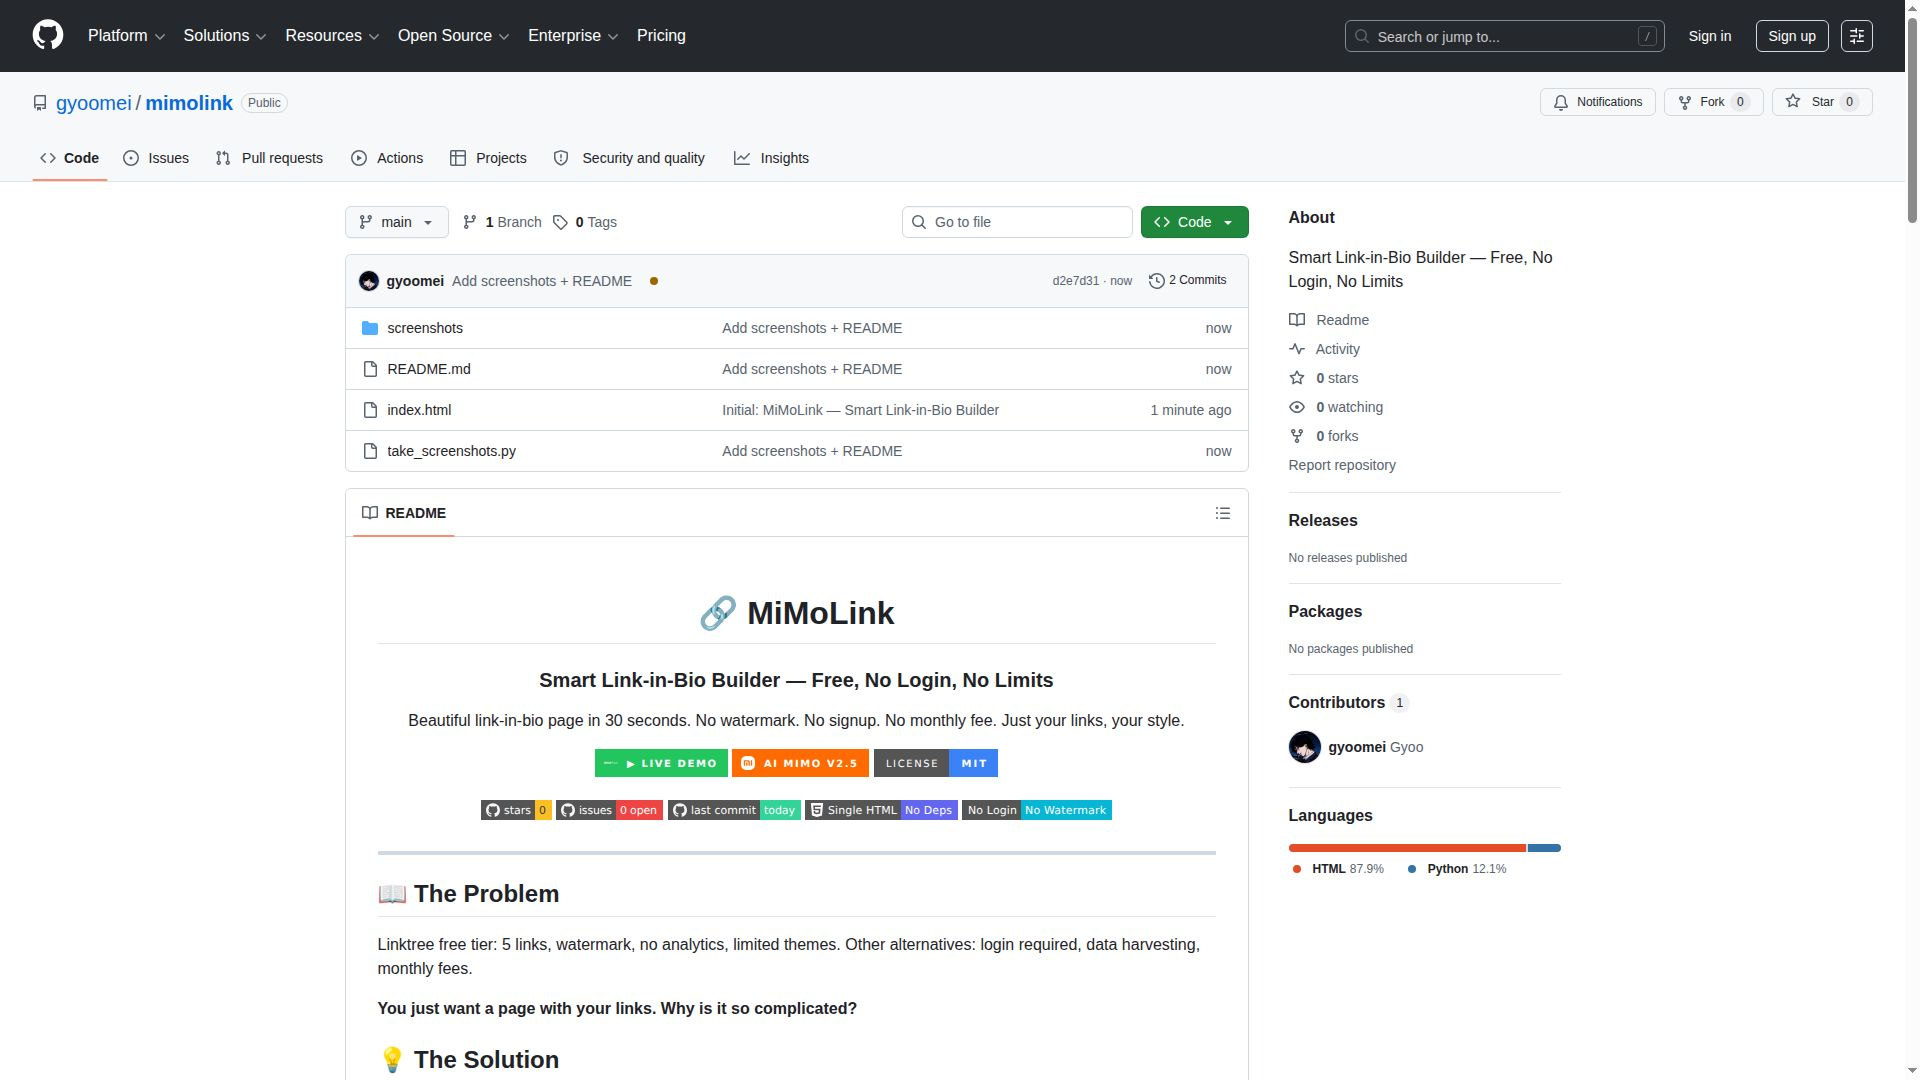
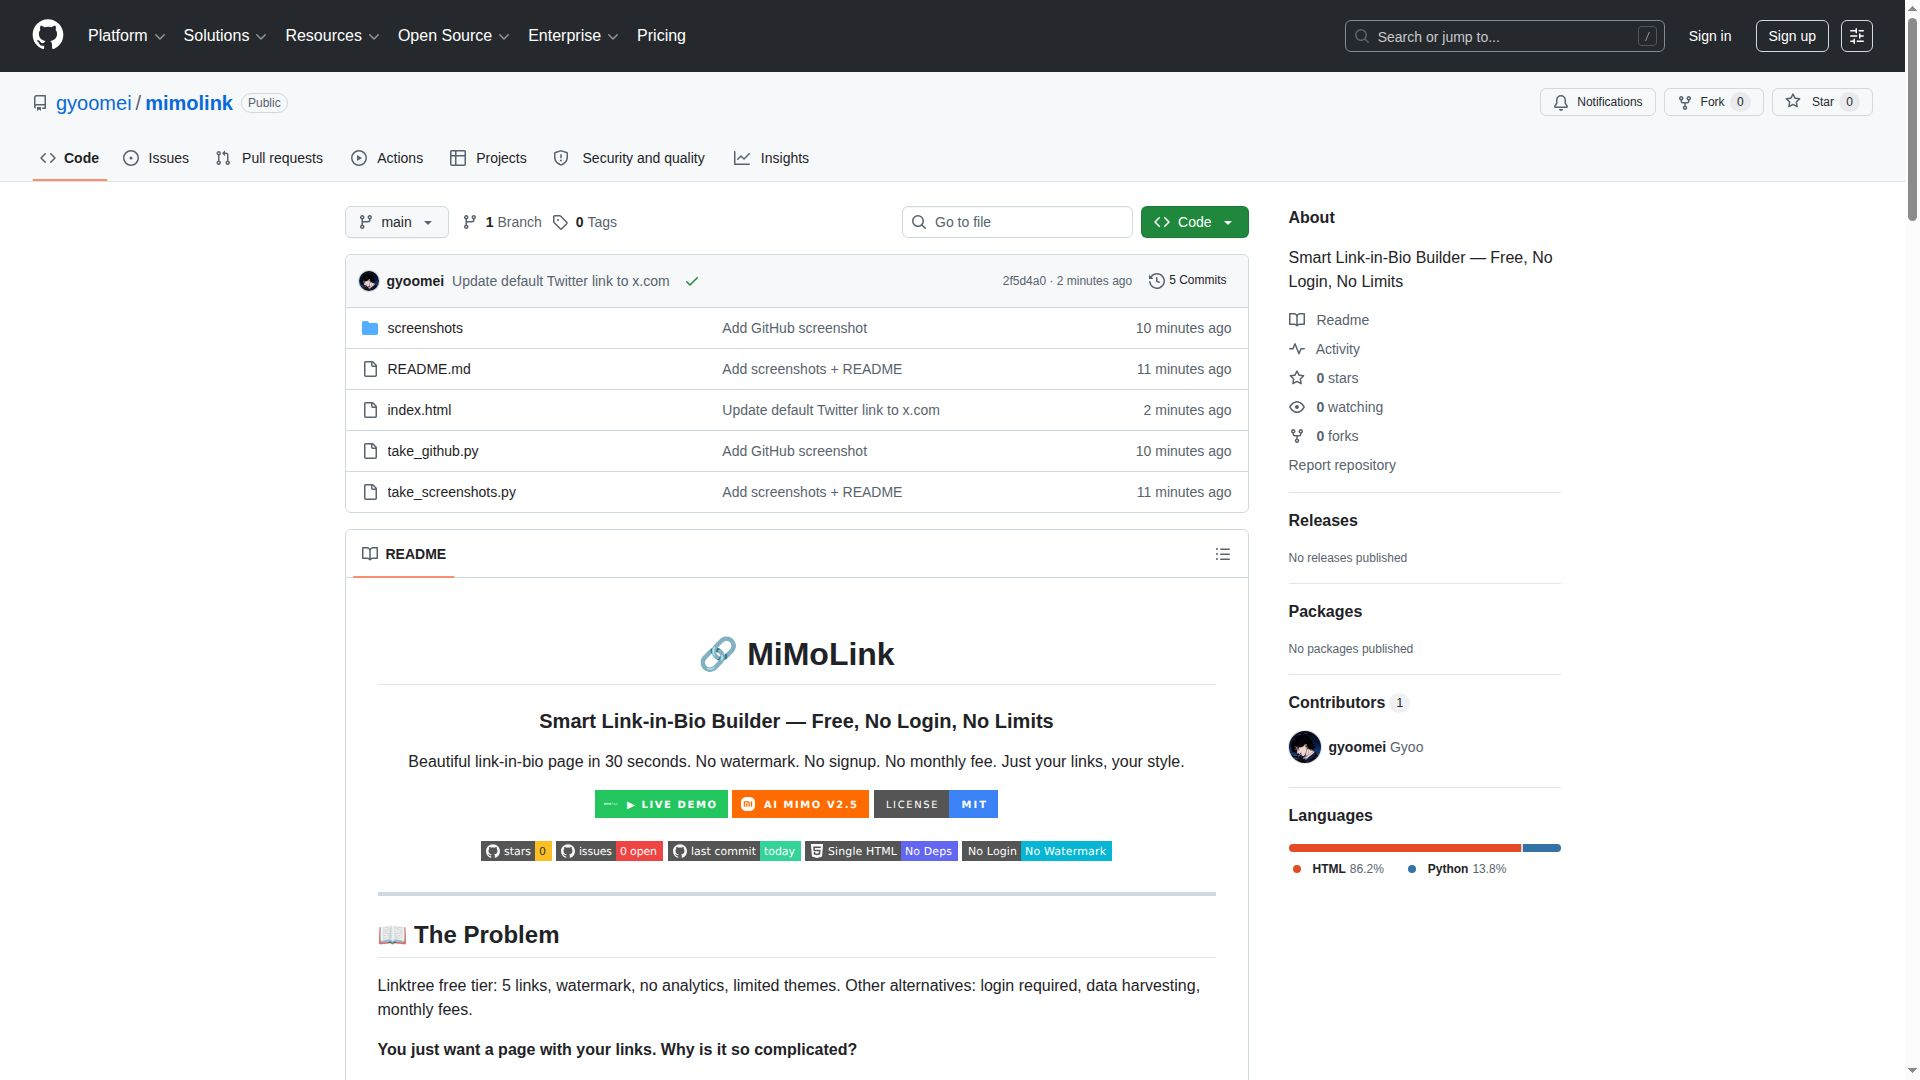
Remove generated page screenshot from README

diff --git a/README.md b/README.md
@@ -64,8 +64,8 @@ Cost:       $0. Forever.
 | **Builder — Dark Mode** | **Gradient Theme Preview** |
 | ![](screenshots/03_sunset.png) | ![](screenshots/04_light.png) |
 | **Sunset Theme** | **Light Mode Builder** |
-| ![](screenshots/05_mobile.png) | ![](screenshots/06_generated.png) |
-| **Mobile View** | **Generated Link Page** |
+| ![](screenshots/05_mobile.png) | |
+| **Mobile View** | |
 
 ---
 
